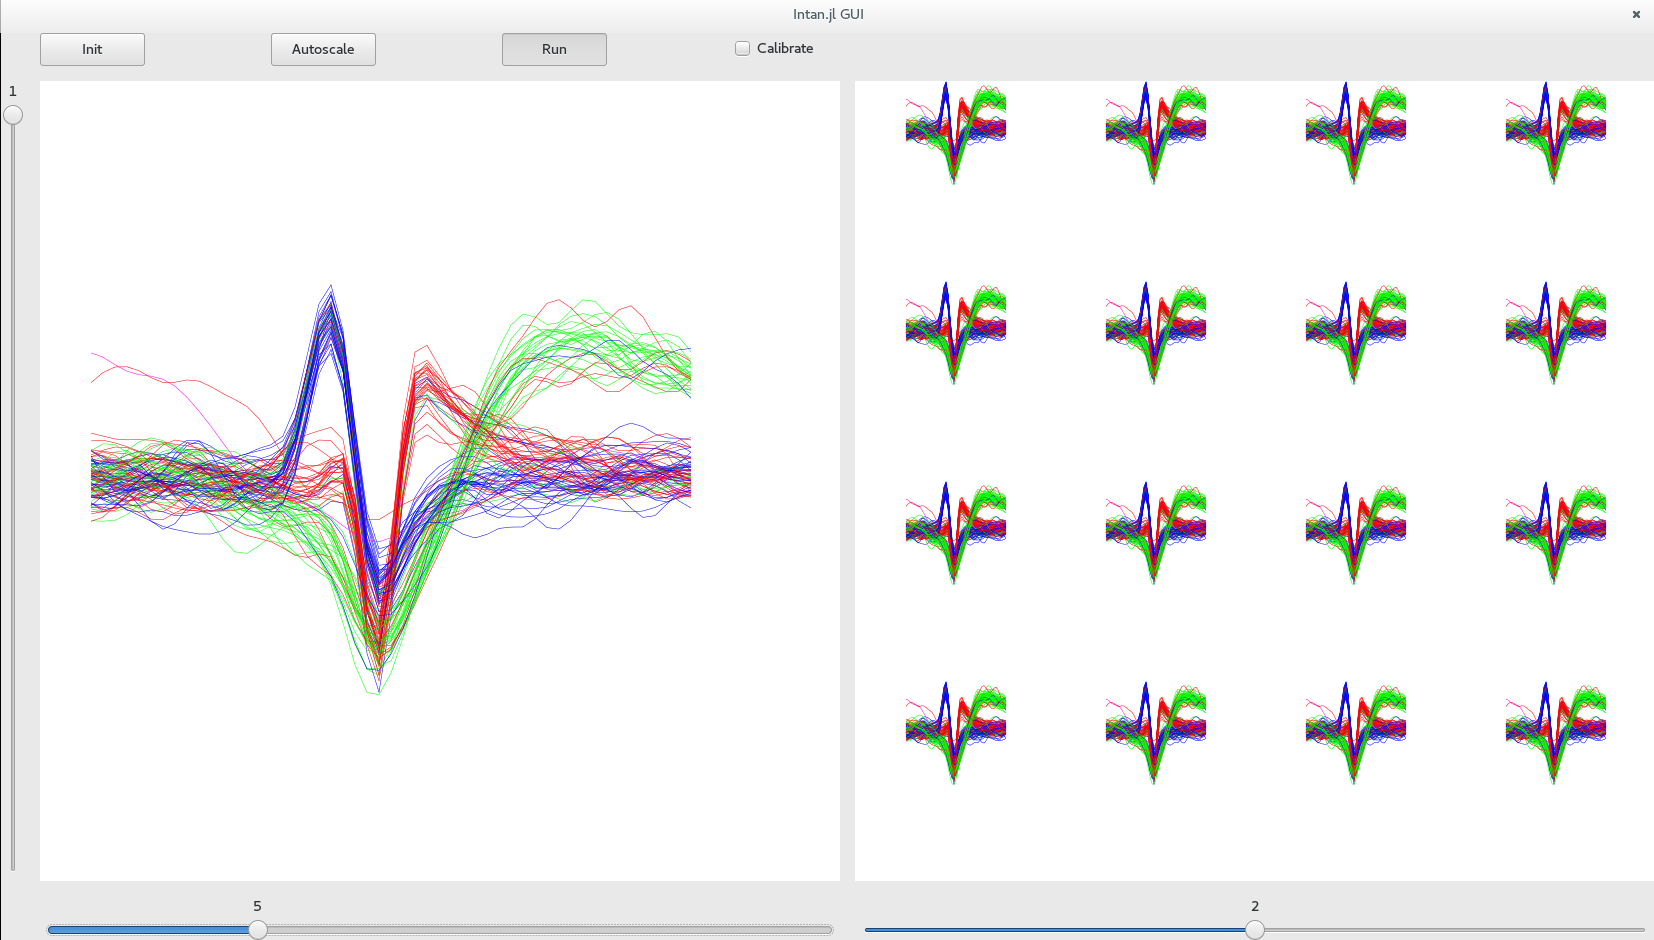
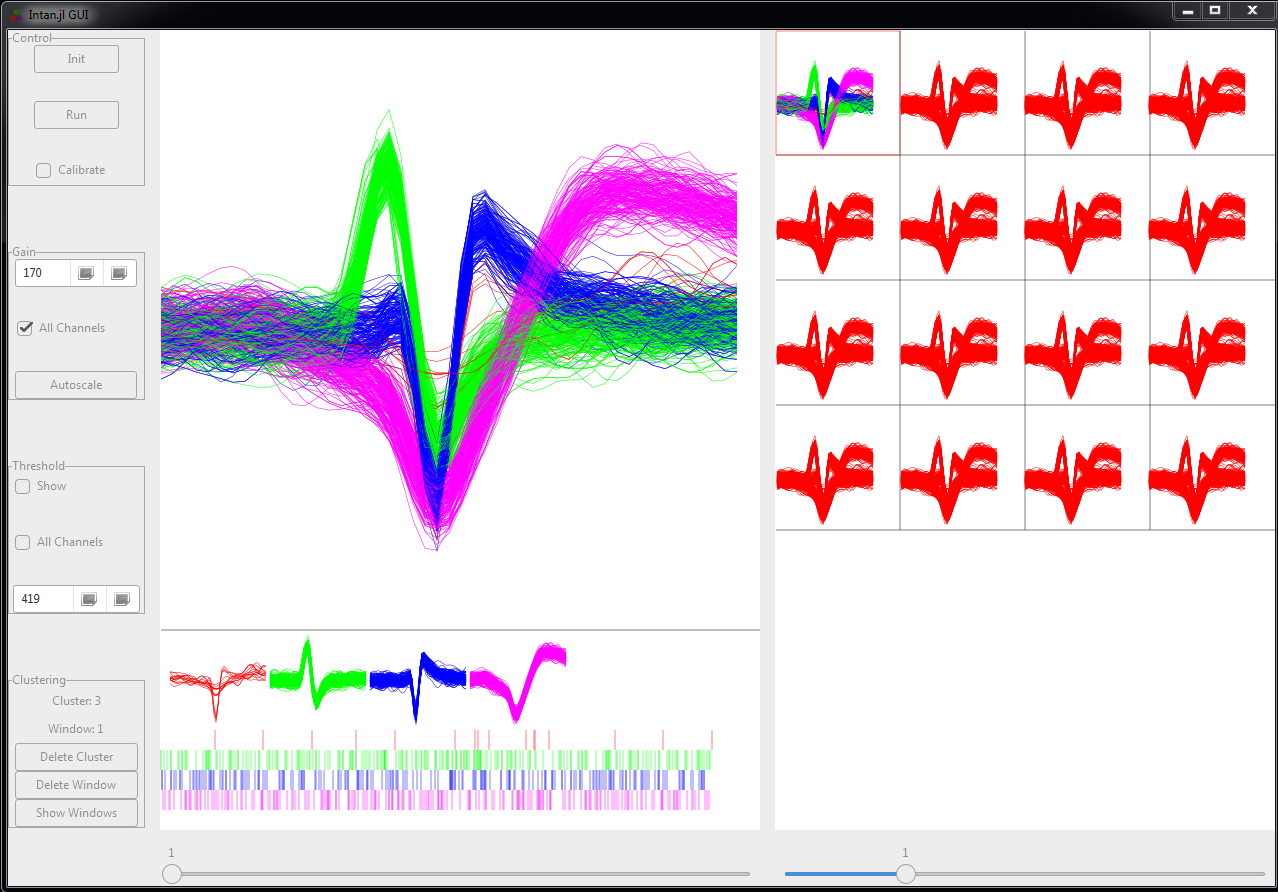
updated documentation

diff --git a/docs/Visualization.rst b/docs/Visualization.rst
@@ -16,6 +16,8 @@ Interface
 Single Channel Display
 =======================
 
+.. image:: GUI_single.png
+
 The left display shows voltage-time plots of detected spike events. The scroll bar at the bottom can be used to select the individual channel from the group display (to the right) to display.
 
 Different clusters are represented with different colors.
@@ -28,13 +30,34 @@ The right display shows voltage-time plots of 16 channels simultaneously. The sc
 
 Different clusters are represented with different colors.
 
+==================
+Waveform Display
+==================
+
+.. image:: GUI_specific.png
+
+For better visualization, each waveform on the main display channel will be plotted separately, along with the corresponding spike raster.
+
+********
+Control
+********
+
+.. image:: GUI_control.png
+
+Before starting, click the Init button to connect to the FPGA and calibrate the headstages. The run button will start collecting data. The first data is initially collected in "calibration mode." All the board to run for several seconds (or longer depending on what spike sorting method is selected) before unchecking the calibration box. After this box is unchacked, data will begin to be displayed on the displays.
+
 *************
 Channel Gain
 *************
 
+.. image:: GUI_gain.png
 
+Gain can be adjusted for a single channel or, with the All Channels checkbox selected, for every channel on the headstage. The autoscale button will try to calculate the optimal gain value for the channel which is displayed.
 
 ******************
 Channel Threshold
 ******************
 
+.. image:: GUI_thresh.png
+
+The threshold can be adjusted for a single channel, or with the All Channels checkbox selected, for every channel on the headstage. The show checkbox is used to display the threshold for the single maximized channel.
